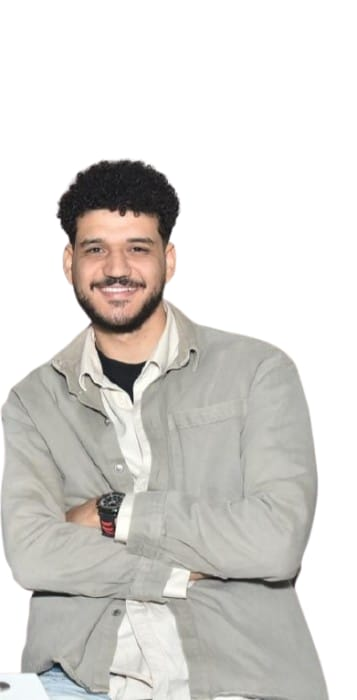
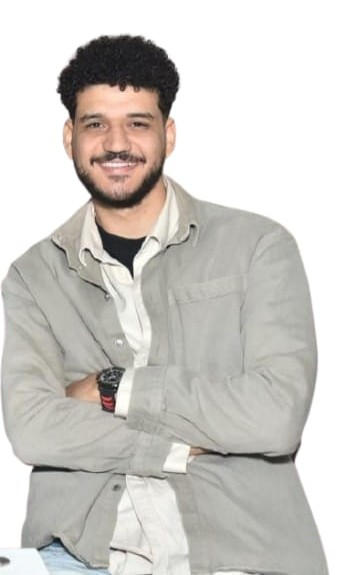
update ui of image

diff --git a/style.css b/style.css
@@ -534,6 +534,11 @@ body::before {
   object-fit: cover;
   object-position: top center;
   display: block;
+  transition: transform var(--transition);
+}
+
+.hero-image-card:hover img {
+  transform: scale(1.03);
 }
 
 .hero-image-ring {
@@ -686,6 +691,11 @@ section.bg-alt {
   object-fit: cover;
   object-position: top center;
   display: block;
+  transition: transform var(--transition);
+}
+
+.about-portrait-frame:hover img {
+  transform: scale(1.03);
 }
 
 .about-stats {
